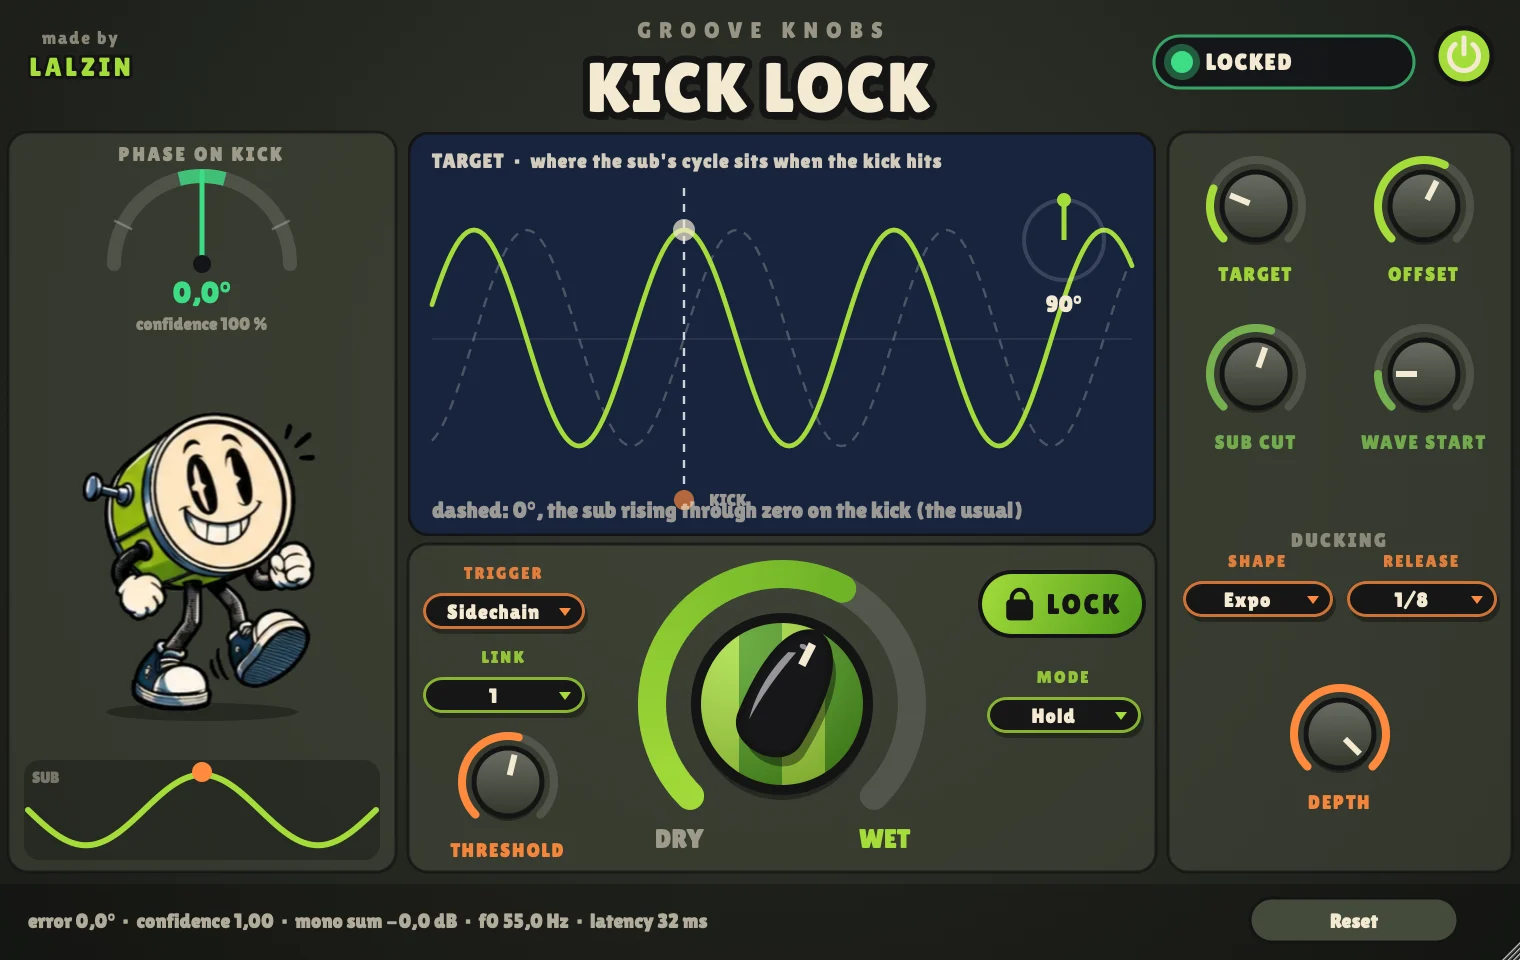
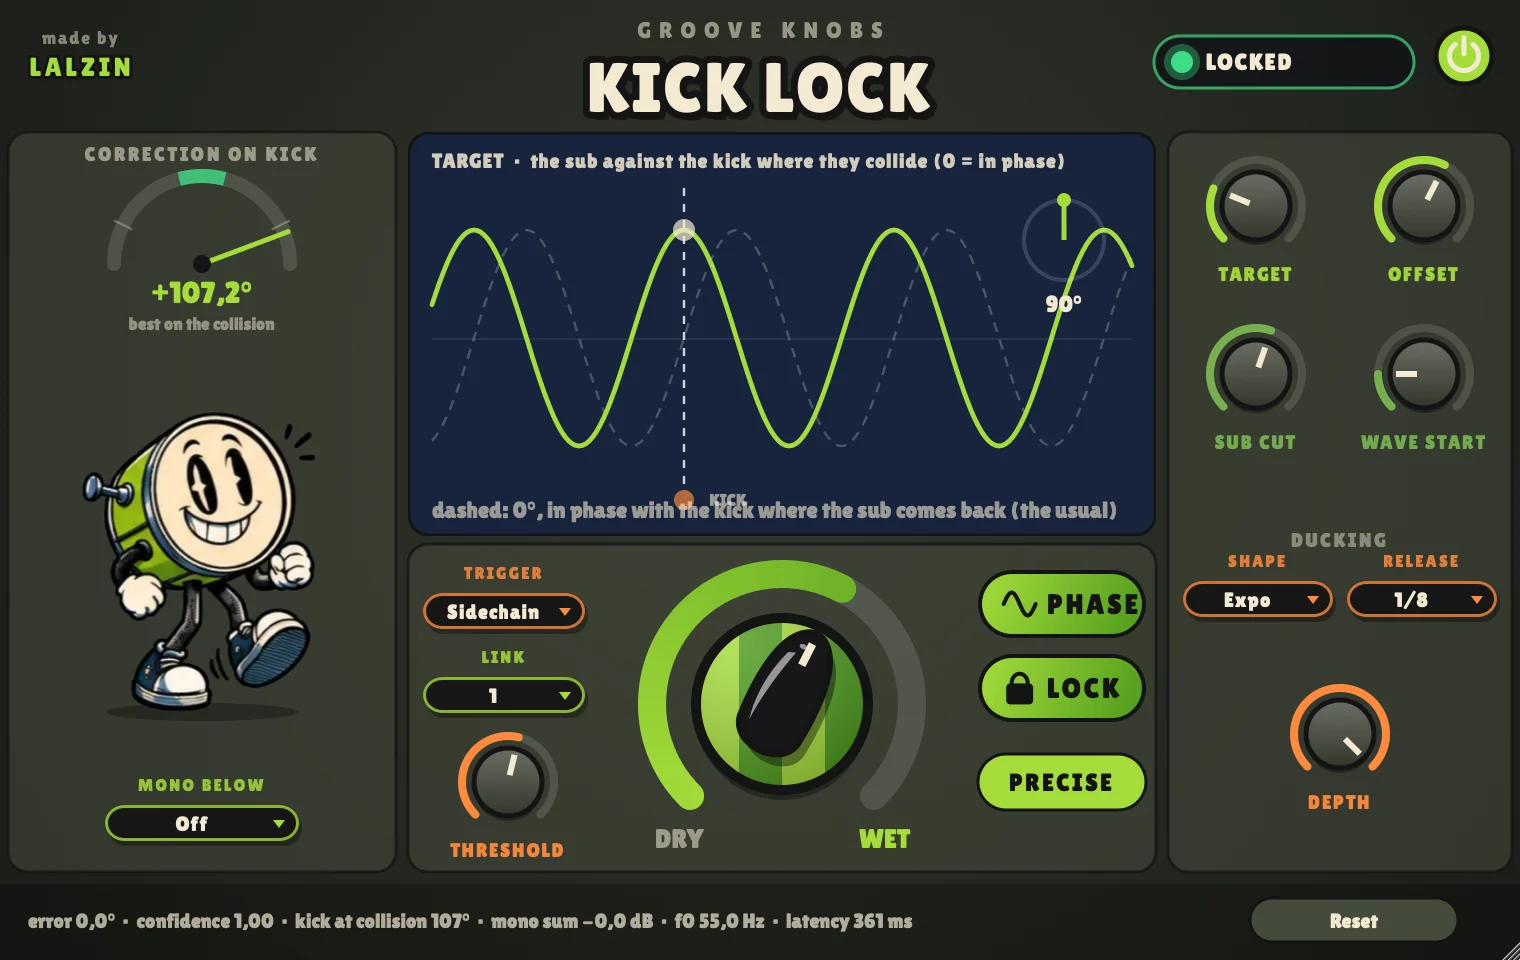
Kick Lock 0.1.5: version, release notes, site data and visuals (PRECISE by default)

diff --git a/installer/mac/kick_lock/welcome.html b/installer/mac/kick_lock/welcome.html
@@ -15,7 +15,7 @@
 <h2>Kick Lock</h2>
 <p class="by"><b>by LALZIN</b> &mdash; with groove and love &#9829;</p>
 <p>Le sidechain de ta basse, avec la phase du sub cal&eacute;e sur chaque kick. Le knob MIX dose le ducking&nbsp;; <b>LOCK</b> fait tourner la phase de la fondamentale de la basse pour qu&rsquo;elle d&eacute;marre en phase avec le kick (plus de creux entre le kick et le sub). La courbe de ducking se dessine &agrave; la souris sur l&rsquo;oscilloscope.</p>
-<p>&Agrave; mettre sur la <b>piste de basse</b>. Pour le kick, pas besoin de routage&nbsp;: mets <b>Kick Lock Send</b> (install&eacute; avec) sur la <b>piste du kick</b>, il lui envoie ses coups. Sans kick, Kick Lock suit le tempo. Latence 16&nbsp;ms (compens&eacute;e par Live).</p>
+<p>&Agrave; mettre sur la <b>piste de basse</b>. Pour le kick, pas besoin de routage&nbsp;: mets <b>Kick Lock Send</b> (install&eacute; avec) sur la <b>piste du kick</b>, il lui envoie ses coups. Sans kick, Kick Lock suit le tempo. Par d&eacute;faut en mode PRECISE&nbsp;: latence ~360&nbsp;ms, compens&eacute;e par Live (pour le mixage)&nbsp;; LIVE (32&nbsp;ms) pour jouer.</p>
 <p>Cet installateur copie&nbsp;:</p>
 <ul>
 <li><b>VST3</b> (Kick Lock et Kick Lock Send) &rarr; /Library/Audio/Plug-Ins/VST3</li>

diff --git a/CHANGELOG.md b/CHANGELOG.md
@@ -1,14 +1,14 @@
 # Changelog
 
-## [Unreleased] — Kick Lock : en phase là où le kick et le sub se rencontrent
+## Kick Lock 0.1.5 — 2026-10-22 (Kick Lock seul) : PRECISE, en phase là où le kick et le sub se rencontrent
 - **L'oscilloscope** montre tout le signal de la piste quand il n'y a pas d'analyse de phase (PHASE éteint, pas de basse, pas de kick entendu : un sidechain simple) ; le sub sinon. L'en-tête le dit (« sub » / « full signal »).
 - **PRECISE par défaut** (Alan : « le résultat est vraiment satisfaisant ») ; le choix LIVE / PRECISE prend la place de MODE, sous LOCK (Hold / Transition retiré : tout est en Hold ; le paramètre reste pour les anciennes sessions). En PRECISE avec LOCK, la jauge montre la **correction** faite à chaque kick (« CORRECTION ON KICK » ; l'écart restant est nul par construction) et l'oscilloscope le bas de la basse tourné, tel qu'on l'entend.
-- **LIVE / PRECISE** (nouveau, en haut) : PRECISE ne détecte aucune note. Il tourne le bas de la basse (sous SUB CUT, filtre raide) avec sa transformée de Hilbert — la même bande tournée de 90°, quoi qu'elle contienne : legato, glissés, saw — et choisit la rotation sur la collision elle-même, vue à l'avance : le kick (celui du sidechain, ou le dernier de Kick Lock Send) contre le sub qui revient, pondéré par la courbe, sur toute la queue du kick (300 ms au plus). Latence ~360 ms (compensée par le DAW : pour le mixage) ; moins de CPU que LIVE ; aucun clic. LIVE (32 ms) reste le mode par défaut, pour jouer.
+- **LIVE / PRECISE** (nouveau, sous LOCK) : PRECISE ne détecte aucune note. Il tourne le bas de la basse (sous SUB CUT, filtre raide) avec sa transformée de Hilbert — la même bande tournée de 90°, quoi qu'elle contienne : legato, glissés, saw — et choisit la rotation sur la collision elle-même, vue à l'avance : le kick (celui du sidechain, ou le dernier de Kick Lock Send) contre le sub qui revient, pondéré par la courbe, sur toute la queue du kick (300 ms au plus). Latence ~360 ms (compensée par le DAW : pour le mixage) ; moins de CPU que LIVE ; aucun clic. LIVE (32 ms) reste le mode par défaut, pour jouer.
 - La collision se juge sur toute la queue du kick (jusqu'au kick suivant, 300 ms au plus), plus seulement pendant la release : après elle le sub est revenu en entier alors que le kick sonne encore.
 - **PHASE** (nouveau bouton, au-dessus de LOCK) : l'analyse de phase oui / non. Éteinte, Kick Lock est un sidechain simple (LOCK grisé, pas de calcul de phase). Elle s'éteint aussi d'elle-même — statut « DUCKING » — quand aucun kick n'est entendu (Auto ou Beat sur le tempo seul, sans Kick Lock Send ni sidechain) et quand la piste n'a pas de basse (rien sous SUB CUT : un pad, un synthé sidechainé).
 - **Hold sur une mélodie de basse** : une nouvelle note qu'on ne peut pas mesurer n'hérite plus de la correction de la note d'avant (elle reste telle quelle) ; la stabilité se juge sur la phase de la fondamentale, plus sur la forme d'onde (un filtre qui se referme pendant la note la faisait juger instable) ; une note qui démarre sur le kick est mesurée et calée aussi (un oscillateur libre n'y est pas en phase). Kick Lock attend jusqu'à 25 ms après le kick (le sub y est baissé) pour mesurer une nouvelle note.
 - **Clics et CPU** (Alan : « des clics sur le CPU et au rendu ») : deux causes. (1) Un pic de calcul à chaque kick (l'analyse dans un seul échantillon : jusqu'à 23 ms de calcul dans un bloc de 10,7 ms) — l'analyse coûte maintenant ~25 fois moins (pire bloc ~0,65 ms en blocs de 128, ~1 ms en 512). (2) Un vrai saut dans le son (donc au rendu aussi) : le suivi de la fondamentale changeait de hauteur pendant qu'une rotation était appliquée — il ne change plus qu'avec la rotation à 0 (elle y revient en 5 ms, puis repart). Sur une mélodie de sub legato, le son ne contient plus rien au-dessus de la basse elle-même (170 fois trop avant).
-- **Valeur du grand knob** : la pastille s'élargit avec son texte (French Filter : « HP 100 % » finissait en « … ») ; Kick Lock Send affiche « P 35 % » / « S 35 % » (PUNCH / SOFT restent écrits sous le knob).
+- **Valeur du grand knob** : la pastille s'élargit avec son texte (French Filter aussi, à sa prochaine version : « HP 100 % » finissait en « … ») ; Kick Lock Send affiche « P 35 % » / « S 35 % » (PUNCH / SOFT restent écrits sous le knob).
 - **MONO BELOW** (nouveau, sous Phaze, à la place de l'onde « SUB » qui n'apprenait rien — Alan) : Off / 60 / 80 / 100 / 120 / 150 / 200 Hz. Le bas de la basse passe en mono sous la fréquence choisie (entièrement dessous, en douceur jusqu'à ~180 Hz au-dessus), sans déphasage (filtre à phase linéaire, dans la latence existante) ; la stéréo des aigus intacte ; Off = la basse au bit près. La barre du bas mesurait déjà la perte en mono : ce réglage la corrige.
 - **La cible du LOCK** (Alan : « c'est au niveau de la collision des deux que c'est important ») : le sub n'est plus calé sur une phase fixe au début du kick, mais **en phase avec le kick là où le sub revient sous la courbe de ducking** (un kick n'est pas une sinusoïde : sa hauteur tombe, sa phase bouge). Kick Lock prend la forme du dernier kick (sidechain ou Kick Lock Send), la pondère par la courbe, et vise sa phase à la fréquence de la note. Mesuré : kick + sub additionnés sur la release jusqu'à +35 % d'énergie par rapport à l'ancienne cible, au niveau du meilleur réglage possible. TARGET devient un décalage par rapport à cette cible (0 = en phase). La barre du bas affiche « kick at collision ».
 - **Mélodies legato** (Alan : « phase on kick à +30 à 80° », Hold qui n'arrive pas à 0) : une note qui change sans silence, sur le kick ou juste avant, est reconnue (la hauteur se mesure sur la note entendue après le kick — Kick Lock attend jusqu'à 20 ms pendant que le sub est baissé —, la fondamentale est ré-extraite) : < 5° au lieu de 30–170°.

diff --git a/.github/release-notes-kick-lock.md b/.github/release-notes-kick-lock.md
@@ -1,11 +1,12 @@
 **Kick Lock** (+ **Kick Lock Send**) — le sidechain qui cale le sub sur chaque kick, par **LALZIN**. Gratuit.
 *The sidechain that locks the sub on every kick, by LALZIN. Free.*
 
-### 0.1.4
-- **LOCK identique pour une note identique** : la phase est mesurée sur le cycle de basse qui suit le kick (Kick Lock l'entend en avance). Même note, même correction à chaque kick, qu'elle démarre longtemps avant le kick ou juste avant.
-- **Mélodies de sub** : chaque note verrouillée (~1°), même une note qui démarre 10 ms avant le kick ; une note qui démarre sur le kick ou après reste intacte (pas de clic). Notes sous 40 Hz verrouillées aussi.
-- Latence ~32 ms (compensée par le DAW).
-- *Same note, same lock on every kick; every note of a sub melody locked, even one starting 10 ms before the kick; notes starting on or after the kick untouched. Latency ~32 ms (compensated by your DAW).*
+### 0.1.5
+- **PRECISE** (par défaut) : plus aucune détection de note. Kick Lock compare ton kick au sub qui arrive, sur toute la collision (vue à l'avance, pondérée par la courbe de ducking), et tourne le bas de la basse pour que les deux s'additionnent au maximum — legato, glissés, saw, notes graves : tout passe. Latence ~360 ms, compensée par le DAW (pour le mixage). **LIVE** (32 ms) reste au choix pour jouer.
+- **PHASE** : l'analyse de phase oui / non — éteinte (ou d'elle-même sans basse ou sans kick entendu), Kick Lock est un sidechain simple et l'oscilloscope montre tout le signal.
+- **MONO BELOW** : le bas de la basse en mono sous 60–200 Hz, sans déphasage.
+- Plus de clics, beaucoup moins de CPU ; MODE (Hold / Transition) retiré.
+- *PRECISE (default): no note detection — your kick is compared with the incoming sub over the whole collision (seen ahead, weighted by the ducking curve) and the bass's low end is turned so the two add up the most. ~360 ms latency, compensated by your DAW (for mixing); LIVE (32 ms) to play. PHASE on/off (a plain sidechain when off), MONO BELOW, no more clicks, far less CPU.*
 
 ### Windows (10 / 11, 64 bits)
 Télécharge `KickLock-…-Windows-Setup.exe` ci-dessous et lance-le : Kick Lock et Kick Lock Send en VST3 dans `C:\Program Files\Common Files\VST3` + application autonome.

diff --git a/README.md b/README.md
@@ -234,7 +234,7 @@ TRIGGER : **Auto** (le Send de son LINK, sinon le tempo), **Link**, **Beat** (le
 
 ## Latence
 
-~32 ms (le cycle de basse qui suit chaque kick est mesuré avant d'être entendu : la même note donne la même correction, quel que soit le moment où elle démarre ; plus le fondu). Avec Kick Lock Send et un buffer audio de plus de 1024 échantillons à 48 kHz, un peu plus (~50 ms à 2048) pour attendre les kicks de l'autre piste : Kick Lock ne devine jamais un kick. Kick Lock Send annonce la même latence ; l'hôte compense les deux.
+**PRECISE** (par défaut) : ~360 ms — Kick Lock voit à l'avance toute la collision (la queue du kick, 300 ms au plus) et le bas de la basse, sans détection de note ; le DAW compense, c'est pour le mixage. **LIVE** : ~32 ms (le cycle de basse qui suit chaque kick est mesuré avant d'être entendu ; la note est suivie), pour jouer. Avec Kick Lock Send et un gros buffer audio, un peu plus pour attendre les kicks de l'autre piste : Kick Lock ne devine jamais un kick.
 
 Tests : `kl_tests` (30 cas : phase, convergence, ducking, lien, détection, niveau...), `kl_render`, `kl_screenshots` (`--web` pour les visuels du site), pluginval 10 et auval (`aufx KkLk Lalz`, `aufx KkLs Lalz`).
 
